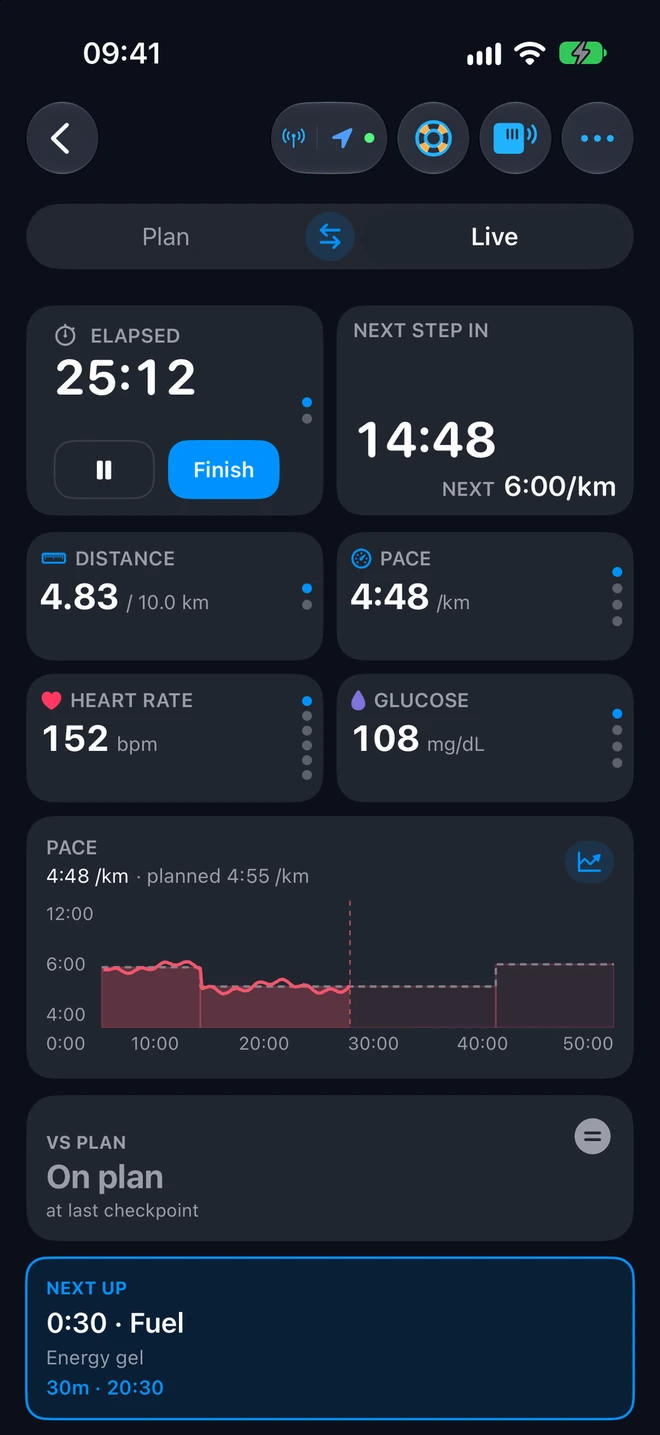
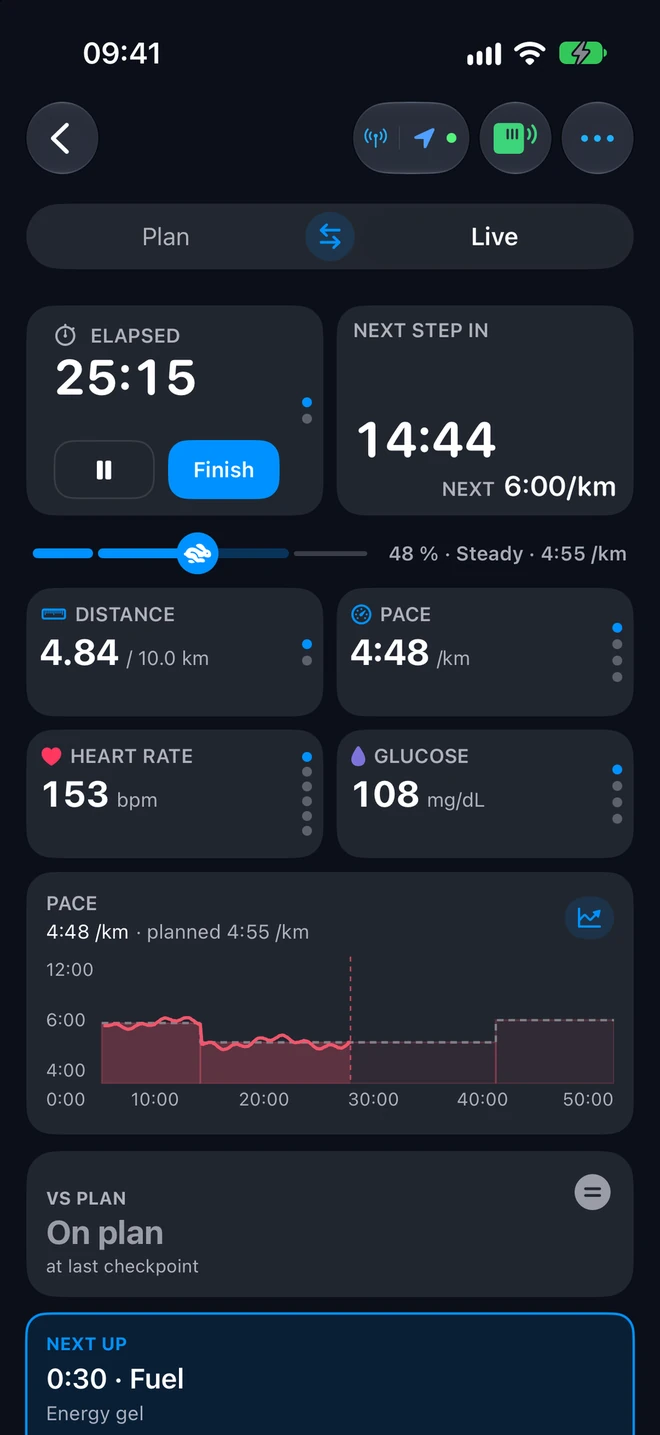
Prepare 22 November 1.3.15 changelog and two current app frames

diff --git a/changelog/el.html b/changelog/el.html
@@ -106,7 +106,38 @@
 <li>Το ημερολόγιο κρατά τον μήνα, την εβδομάδα και μια σημείωση στην ημέρα. Στο iPhone, τα widgets και η οθόνη κλειδώματος ακολουθούν τη συνεδρία.</li>
 <li>Η εξαγωγή των δραστηριοτήτων σου είναι στον ιστό. Στο τηλέφωνο, η εξαγωγή ανοίγει τη διαδικτυακή εφαρμογή. Το Season plan είναι στον ιστό.</li>
 </ul></article>
-<section class="card release"><h2><button class="release-toggle" type="button" aria-expanded="true" aria-controls="release-2026-11-15"><span>1.3.14 — 15 Νοεμβρίου 2026</span><span class="chevron" aria-hidden="true"><svg width="20" height="20" viewBox="0 0 24 24" fill="none" stroke="currentColor" stroke-width="2.4" stroke-linecap="round" stroke-linejoin="round" focusable="false"><path d="M5 9l7 7 7-7"/></svg></span></button></h2><div id="release-2026-11-15" class="release-body"><p>Η ενημέρωση για iPhone και iPad μετά την 1.3.13 του App Store, και για Android μετά την 1.3.12 του Play. Φτάνει στα καταστήματα όταν την εγκρίνουν.</p>
+<section class="card release"><h2><button class="release-toggle" type="button" aria-expanded="true" aria-controls="release-2026-11-22"><span>1.3.15 — 22 Νοεμβρίου 2026</span><span class="chevron" aria-hidden="true"><svg width="20" height="20" viewBox="0 0 24 24" fill="none" stroke="currentColor" stroke-width="2.4" stroke-linecap="round" stroke-linejoin="round" focusable="false"><path d="M5 9l7 7 7-7"/></svg></span></button></h2><div id="release-2026-11-22" class="release-body"><p>Η ενημέρωση για iPhone και iPad μετά την 1.3.14 του App Store, και για Android μετά την 1.3.14 του Play. Φτάνει στα καταστήματα όταν την εγκρίνουν.</p>
+<h3>Νέα</h3>
+<ul>
+<li>Μια μπάρα προόδου κάτω από την κεφαλίδα δείχνει το όνομα και τον στόχο κάθε βήματος. Ένας λαγός σημειώνει βήμα ταχύτερο από τον ρυθμό LT1, μια χελώνα ένα εύκολο, και την κλείνεις από το •••. Ένα ελεύθερο τρέξιμο έχει μπάρα γύρου ανά km ή μίλι. iPhone, iPad και Android.</li>
+<li>Το Next step δείχνει ρυθμό ή ταχύτητα όπως το έβαλες στο βήμα, και σε διάδρομο. Ένα ελεύθερο τρέξιμο δείχνει ρυθμό. iPhone, iPad και Android.</li>
+<li>Στο Health lab, τα αποτελέσματα είναι ένας έγχρωμος χάρτης με το εύρος κάθε δείκτη. Το νεότερο τεστ είναι αριστερά, και σύρεις τα παλαιότερα. Πρόσθεσε την ημερομηνία λήψης όταν δεν διαβάζεται. Απόρριψε όλη την αναφορά, ή κράτα τις τιμές που ταίριαξαν.</li>
+<li>Σε iPhone και iPad, με επιλεγμένα μίλια, τα πλακίδια, τα laps, τα γραφήματα, το Calendar και το Season διαβάζουν mi, /mi και mph. Τα κολυμβητικά χρησιμοποιούν γιάρδες.</li>
+<li>Τα πλάνα ποδηλασίας και κολύμβησης ξεκινούν από Endurance, Intervals ή Recovery. Οι προτάσεις διαδρομής φτάνουν πλέον ως τα 200 km.</li>
+<li>Η κάμερα 3D στρίβει με τον δρόμο, με μεγαλύτερες κάρτες στο τέλος. Ο χρόνος και το φορτίο βγαίνουν από τον δικό σου ρυθμό στον στόχο καρδιακών παλμών, και τα μακριά τρεξίματα μετράνε.</li>
+</ul>
+<h3>Βελτιώσεις</h3>
+<ul>
+<li>Οι ετικέτες των ζωνών κάθονται μέσα στις ζώνες τους, και το Warm-up δεν τις στριμώχνει πια. Το Send feedback είναι στο •••, οπότε το επόμενο βήμα έχει χώρο.</li>
+<li>Οι δραστηριότητες ανοίγουν στο Today, με τον πραγματικό προγραμματισμένο χρόνο. Η κεφαλίδα και οι καρτέλες μένουν στη θέση τους. iPhone και iPad.</li>
+<li>Το Sharing… μένει μέχρι να εμφανιστεί το φύλλο κοινοποίησης. iPhone και iPad.</li>
+<li>Ένας νέος σύνδεσμος ζωντανής παρακολούθησης είναι πιο δύσκολο να μαντευτεί. Ένας σύνδεσμος που έχεις ήδη μοιραστεί μένει ο ίδιος.</li>
+<li>Τα splits μιας ποδηλασίας δείχνουν ταχύτητα, όχι ρυθμό.</li>
+</ul>
+<h3>Διορθώσεις</h3>
+<ul>
+<li>Αν μια αποθήκευση στο Calendar δεν περάσει, το Retry μένει στην οθόνη.</li>
+<li>Στο Android, με επιλεγμένα μίλια, τα σύνολα του Calendar και οι άξονες των γραφημάτων διαβάζουν μίλια, /mi ή mph. Τα κολυμβητικά χρησιμοποιούν γιάρδες.</li>
+<li>Ένα τρέξιμο του οποίου ο μέσος καρδιακός παλμός δεν είναι ακέραιος φορτώνει πλέον.</li>
+<li>Στον ιστό, μια περιγραφή Strava κρατά τον ρυθμό και τους καρδιακούς παλμούς της δραστηριότητας.</li>
+</ul>
+<h3>Πλατφόρμες</h3>
+<ul>
+<li>iPhone και iPad, στο πακέτο της 22ης Νοεμβρίου, όταν το εγκρίνει η Apple. Το Season μένει σε iPhone και iPad.</li>
+<li>Android, στο Google Play, όταν κυκλοφορήσει αυτό το πακέτο. Το Season δεν είναι στο Android.</li>
+<li>Η διαδικτυακή εφαρμογή στο my.oxygon.app έχει ήδη το Health lab, το νεότερο τεστ αριστερά με ελεύθερη κύλιση, ετικέτες ζωνών μέσα στις ζώνες, το Send feedback στο •••, και περιγραφές Strava που κρατούν ρυθμό και καρδιακούς παλμούς. Αυτή η κάρτα είναι το πακέτο των καταστημάτων.</li>
+</ul></div></section>
+<section class="card release"><h2><button class="release-toggle" type="button" aria-expanded="false" aria-controls="release-2026-11-15"><span>1.3.14 — 15 Νοεμβρίου 2026</span><span class="chevron" aria-hidden="true"><svg width="20" height="20" viewBox="0 0 24 24" fill="none" stroke="currentColor" stroke-width="2.4" stroke-linecap="round" stroke-linejoin="round" focusable="false"><path d="M5 9l7 7 7-7"/></svg></span></button></h2><div id="release-2026-11-15" class="release-body"><p>Η ενημέρωση για iPhone και iPad μετά την 1.3.13 του App Store, και για Android μετά την 1.3.12 του Play. Φτάνει στα καταστήματα όταν την εγκρίνουν.</p>
 <h3>Νέα</h3>
 <ul>
 <li>Κόβεις την αρχή ή το τέλος μιας καταγραφής, μετά Review, Save ή Undo. Τα δεδομένα του Garmin προηγούνται.</li>

diff --git a/changelog/index.html b/changelog/index.html
@@ -106,7 +106,38 @@
 <li>The calendar holds the month, the week, and a note on a day. On iPhone, widgets and the Lock Screen follow the session.</li>
 <li>Export of your activities is on the web. On the phone, Export opens the web app. A Season plan is on the web.</li>
 </ul></article>
-<section class="card release"><h2><button class="release-toggle" type="button" aria-expanded="true" aria-controls="release-2026-11-15"><span>1.3.14 — 15 November 2026</span><span class="chevron" aria-hidden="true"><svg width="20" height="20" viewBox="0 0 24 24" fill="none" stroke="currentColor" stroke-width="2.4" stroke-linecap="round" stroke-linejoin="round" focusable="false"><path d="M5 9l7 7 7-7"/></svg></span></button></h2><div id="release-2026-11-15" class="release-body"><p>The iPhone and iPad update after App Store 1.3.13, and the Android update after Play 1.3.12. It reaches the stores when they approve it.</p>
+<section class="card release"><h2><button class="release-toggle" type="button" aria-expanded="true" aria-controls="release-2026-11-22"><span>1.3.15 — 22 November 2026</span><span class="chevron" aria-hidden="true"><svg width="20" height="20" viewBox="0 0 24 24" fill="none" stroke="currentColor" stroke-width="2.4" stroke-linecap="round" stroke-linejoin="round" focusable="false"><path d="M5 9l7 7 7-7"/></svg></span></button></h2><div id="release-2026-11-22" class="release-body"><p>The iPhone and iPad update after App Store 1.3.14, and the Android update after Play 1.3.14. It reaches the stores when they approve it.</p>
+<h3>New</h3>
+<ul>
+<li>A progress bar under the live header shows each step&#x27;s name and target. A hare marks a step faster than your LT1 pace, a tortoise an easy one, and you can switch the bar off in •••. A free run uses a lap bar per km or mile. iPhone, iPad and Android.</li>
+<li>Next step shows pace or speed as you set it, on a treadmill too. A free run shows pace. iPhone, iPad and Android.</li>
+<li>In Health lab, results are a colour heatmap with each marker&#x27;s range. The newest test is on the left, and you can swipe through older ones. Add the draw date when it isn&#x27;t read. Discard the whole report, or keep the values that matched.</li>
+<li>On iPhone and iPad, with miles chosen, tiles, laps, charts, Calendar and Season read mi, /mi and mph. Swims use yards.</li>
+<li>Ride and swim plans start from Endurance, Intervals or Recovery. Course suggestions now go up to 200 km.</li>
+<li>The 3D camera turns with the road, with bigger stat cards at the end. Time and load come from your own pace at the target heart rate, and long runs count.</li>
+</ul>
+<h3>Improved</h3>
+<ul>
+<li>Zone labels sit inside their bands, and Warm-up no longer crowds them. Send feedback is in •••, so the next step has room.</li>
+<li>Activities open on Today with the real planned time. The header and tabs stay still. iPhone and iPad.</li>
+<li>Sharing… stays until the share sheet appears. iPhone and iPad.</li>
+<li>A new live tracking link is harder to guess. A link you already shared stays the same.</li>
+<li>A ride&#x27;s splits show speed, not pace.</li>
+</ul>
+<h3>Fixed</h3>
+<ul>
+<li>If a Calendar save doesn&#x27;t go through, Retry stays on screen.</li>
+<li>On Android, with miles chosen, Calendar totals and the chart axes read miles, /mi or mph. Swims use yards.</li>
+<li>A run whose average heart rate isn&#x27;t a whole number now loads.</li>
+<li>On the web, a Strava description keeps the activity&#x27;s pace and heart rate.</li>
+</ul>
+<h3>Platforms</h3>
+<ul>
+<li>iPhone and iPad, in the 22 November package, when Apple approves it. Season stays on iPhone and iPad.</li>
+<li>Android, on Google Play, when this package is released. Season is not on Android.</li>
+<li>The web app at my.oxygon.app already has the Health lab, the newest test on the left with free scrolling, zone labels inside their bands, Send feedback in •••, and Strava descriptions that keep pace and heart rate. This card is the store package.</li>
+</ul></div></section>
+<section class="card release"><h2><button class="release-toggle" type="button" aria-expanded="false" aria-controls="release-2026-11-15"><span>1.3.14 — 15 November 2026</span><span class="chevron" aria-hidden="true"><svg width="20" height="20" viewBox="0 0 24 24" fill="none" stroke="currentColor" stroke-width="2.4" stroke-linecap="round" stroke-linejoin="round" focusable="false"><path d="M5 9l7 7 7-7"/></svg></span></button></h2><div id="release-2026-11-15" class="release-body"><p>The iPhone and iPad update after App Store 1.3.13, and the Android update after Play 1.3.12. It reaches the stores when they approve it.</p>
 <h3>New</h3>
 <ul>
 <li>Trim a recording. Cut the start or the end, then Review, Save or Undo. Garmin data comes first.</li>
